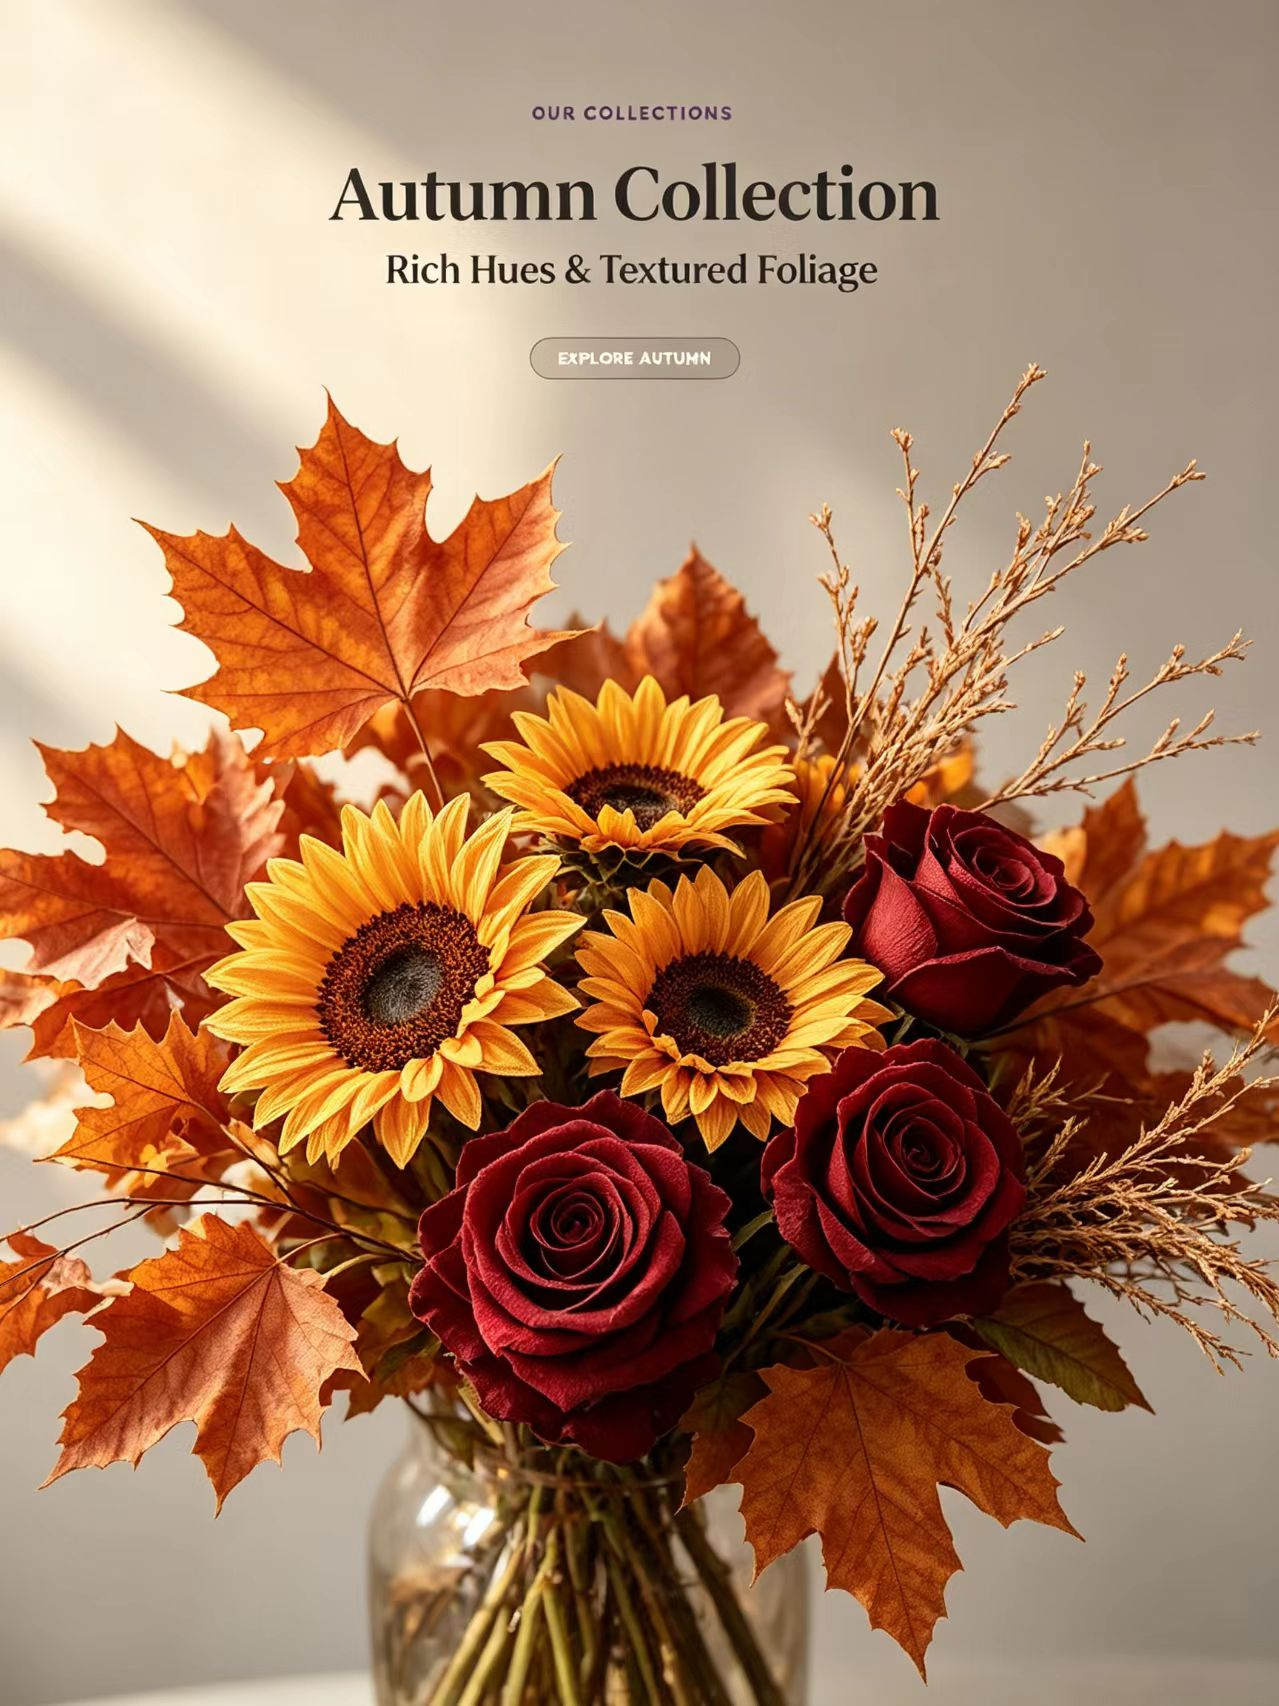
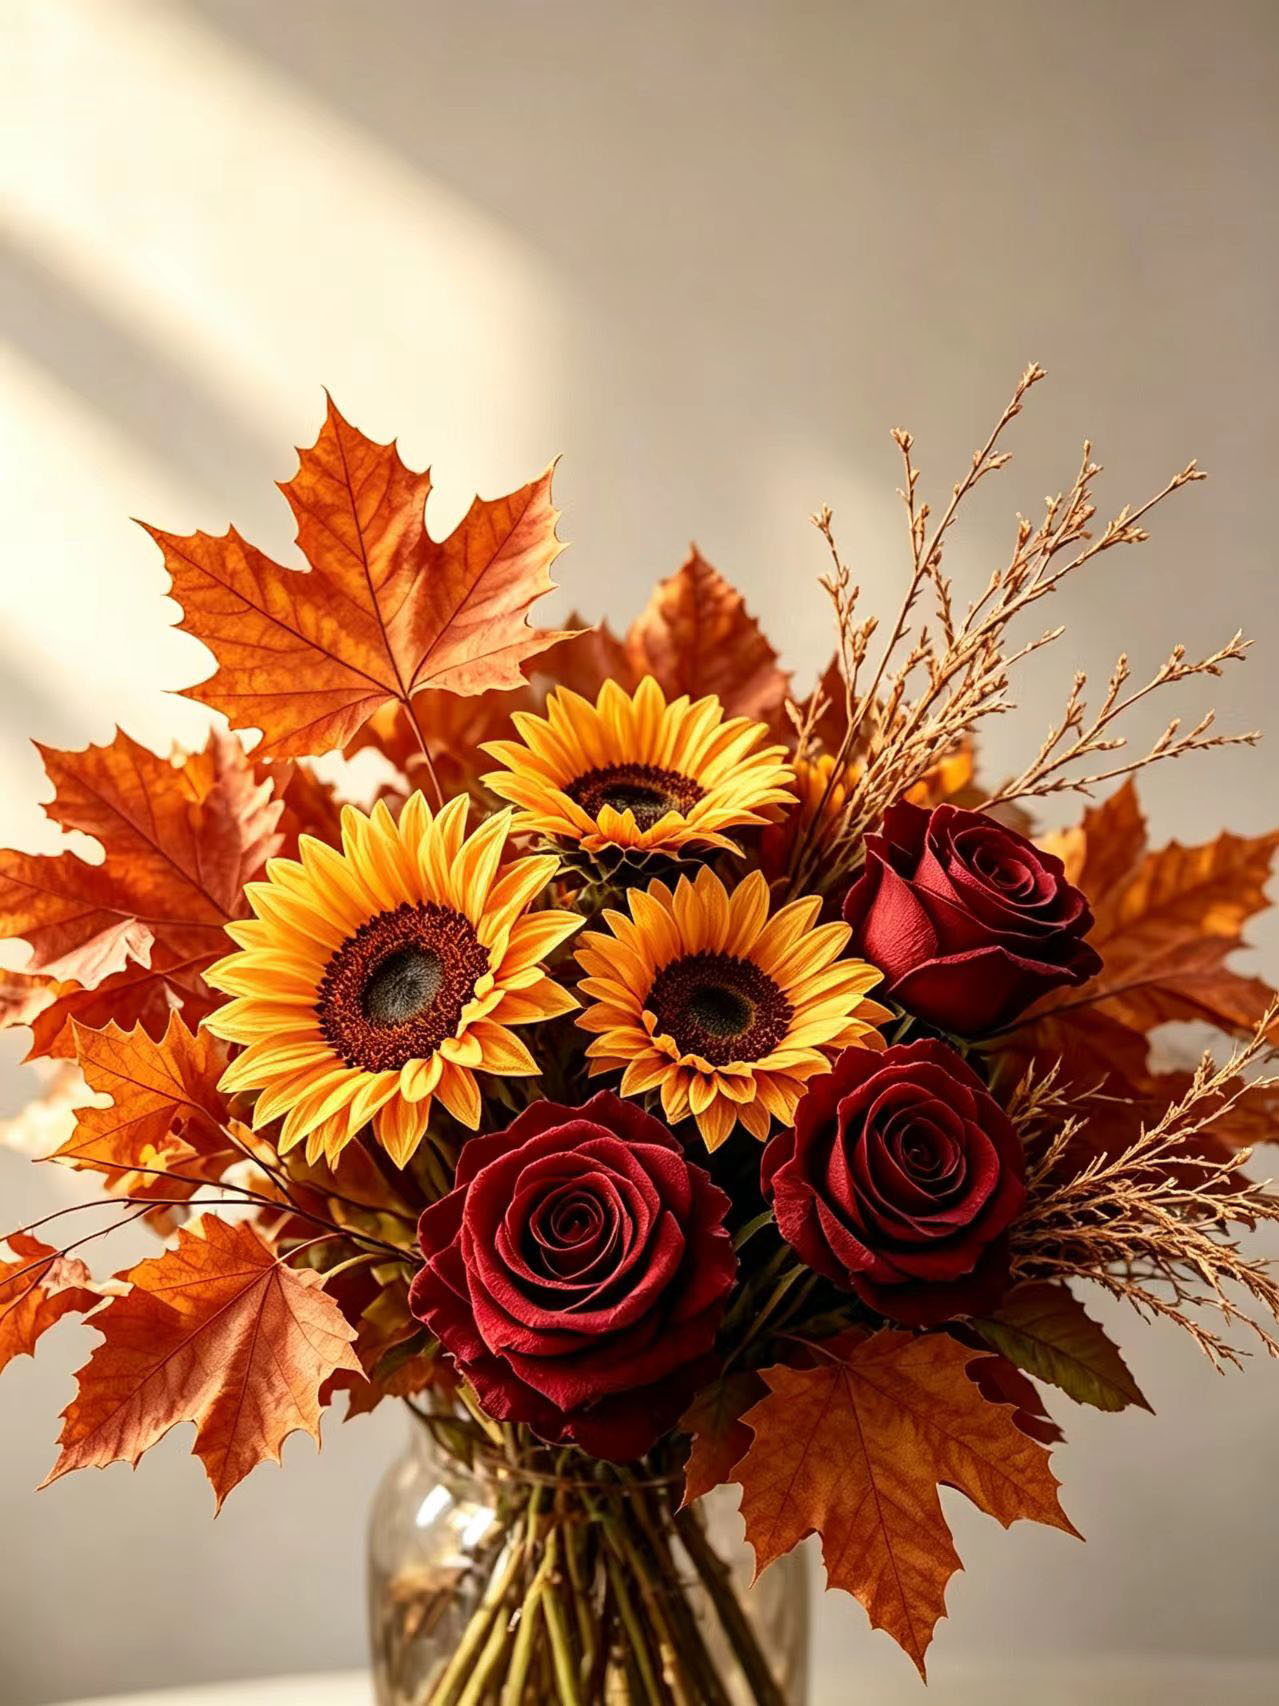
fix: 封面文案严格对齐设计图 — 小号白色大写 + 更新无字封面图
- 三张封面图已由用户清除内置文字，替换为新无字版本（修复文件名空格）
- 标签 12px 白色大写、标题 15px 白色大写（对应设计图 FLOWERS & PLANTS 样式）
- 无遮罩层，照片全彩显示，文字靠 text-shadow 保证可读性

diff --git a/index.html b/index.html
@@ -498,26 +498,27 @@
         }
         .product-card__text {
             position: absolute;
-            top: 26px;
-            left: 26px;
-            right: 26px;
+            top: 24px;
+            left: 24px;
+            right: 24px;
             color: #fff;
         }
         .product-card__label {
-            margin: 0 0 8px;
-            font-size: 13px;
+            margin: 0 0 7px;
+            font-size: 12px;
             font-weight: 700;
-            letter-spacing: 2.5px;
+            letter-spacing: 2px;
             text-transform: uppercase;
-            text-shadow: 0 1px 10px rgba(0, 0, 0, 0.65);
+            text-shadow: 0 1px 10px rgba(0, 0, 0, 0.7);
         }
         .product-card__title {
             margin: 0;
-            font-size: 19px;
+            font-size: 15px;
             font-weight: 600;
-            line-height: 1.35;
-            letter-spacing: 0.3px;
-            text-shadow: 0 1px 12px rgba(0, 0, 0, 0.65);
+            line-height: 1.5;
+            letter-spacing: 1px;
+            text-transform: uppercase;
+            text-shadow: 0 1px 10px rgba(0, 0, 0, 0.7);
         }
         .product-card__content {
             position: absolute;

diff --git a/website.html b/website.html
@@ -498,26 +498,27 @@
         }
         .product-card__text {
             position: absolute;
-            top: 26px;
-            left: 26px;
-            right: 26px;
+            top: 24px;
+            left: 24px;
+            right: 24px;
             color: #fff;
         }
         .product-card__label {
-            margin: 0 0 8px;
-            font-size: 13px;
+            margin: 0 0 7px;
+            font-size: 12px;
             font-weight: 700;
-            letter-spacing: 2.5px;
+            letter-spacing: 2px;
             text-transform: uppercase;
-            text-shadow: 0 1px 10px rgba(0, 0, 0, 0.65);
+            text-shadow: 0 1px 10px rgba(0, 0, 0, 0.7);
         }
         .product-card__title {
             margin: 0;
-            font-size: 19px;
+            font-size: 15px;
             font-weight: 600;
-            line-height: 1.35;
-            letter-spacing: 0.3px;
-            text-shadow: 0 1px 12px rgba(0, 0, 0, 0.65);
+            line-height: 1.5;
+            letter-spacing: 1px;
+            text-transform: uppercase;
+            text-shadow: 0 1px 10px rgba(0, 0, 0, 0.7);
         }
         .product-card__content {
             position: absolute;
